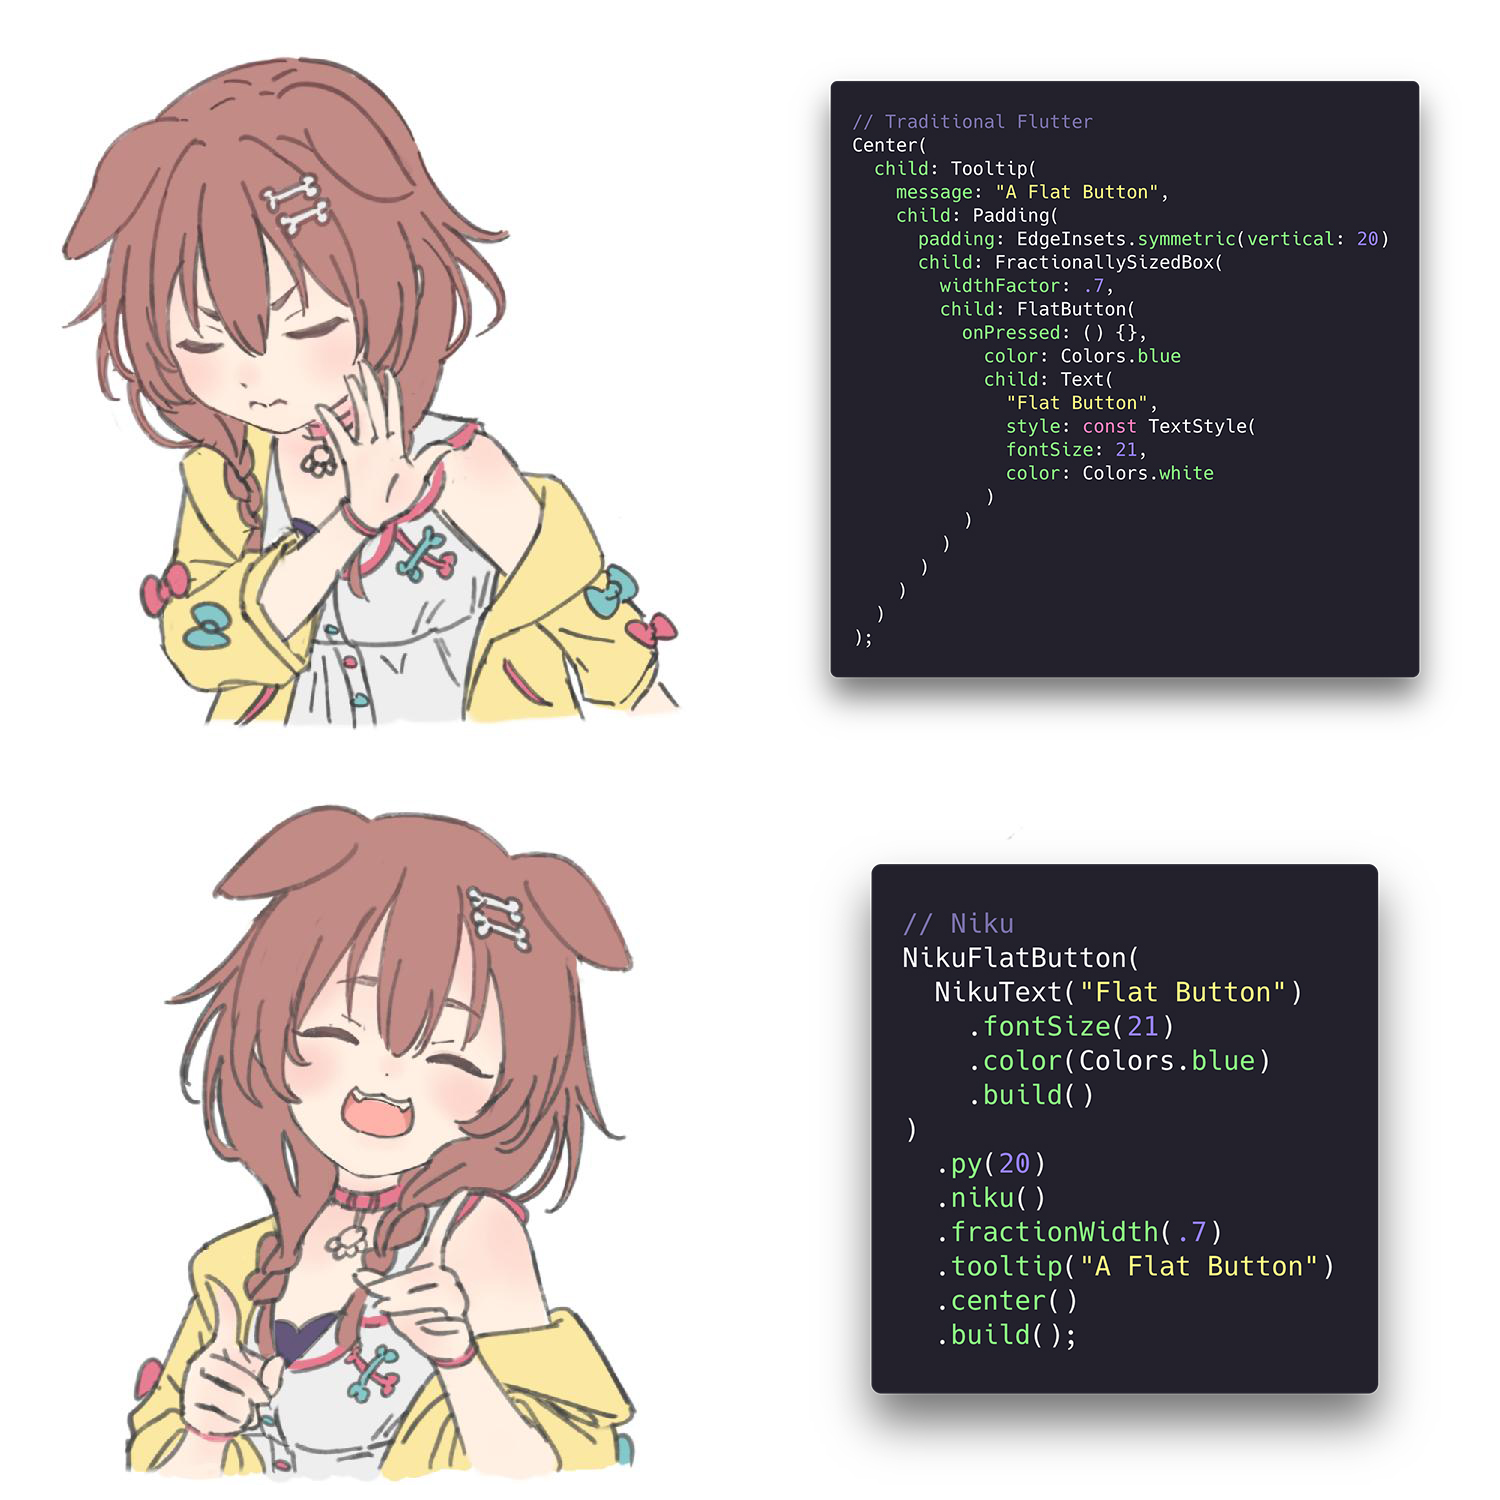
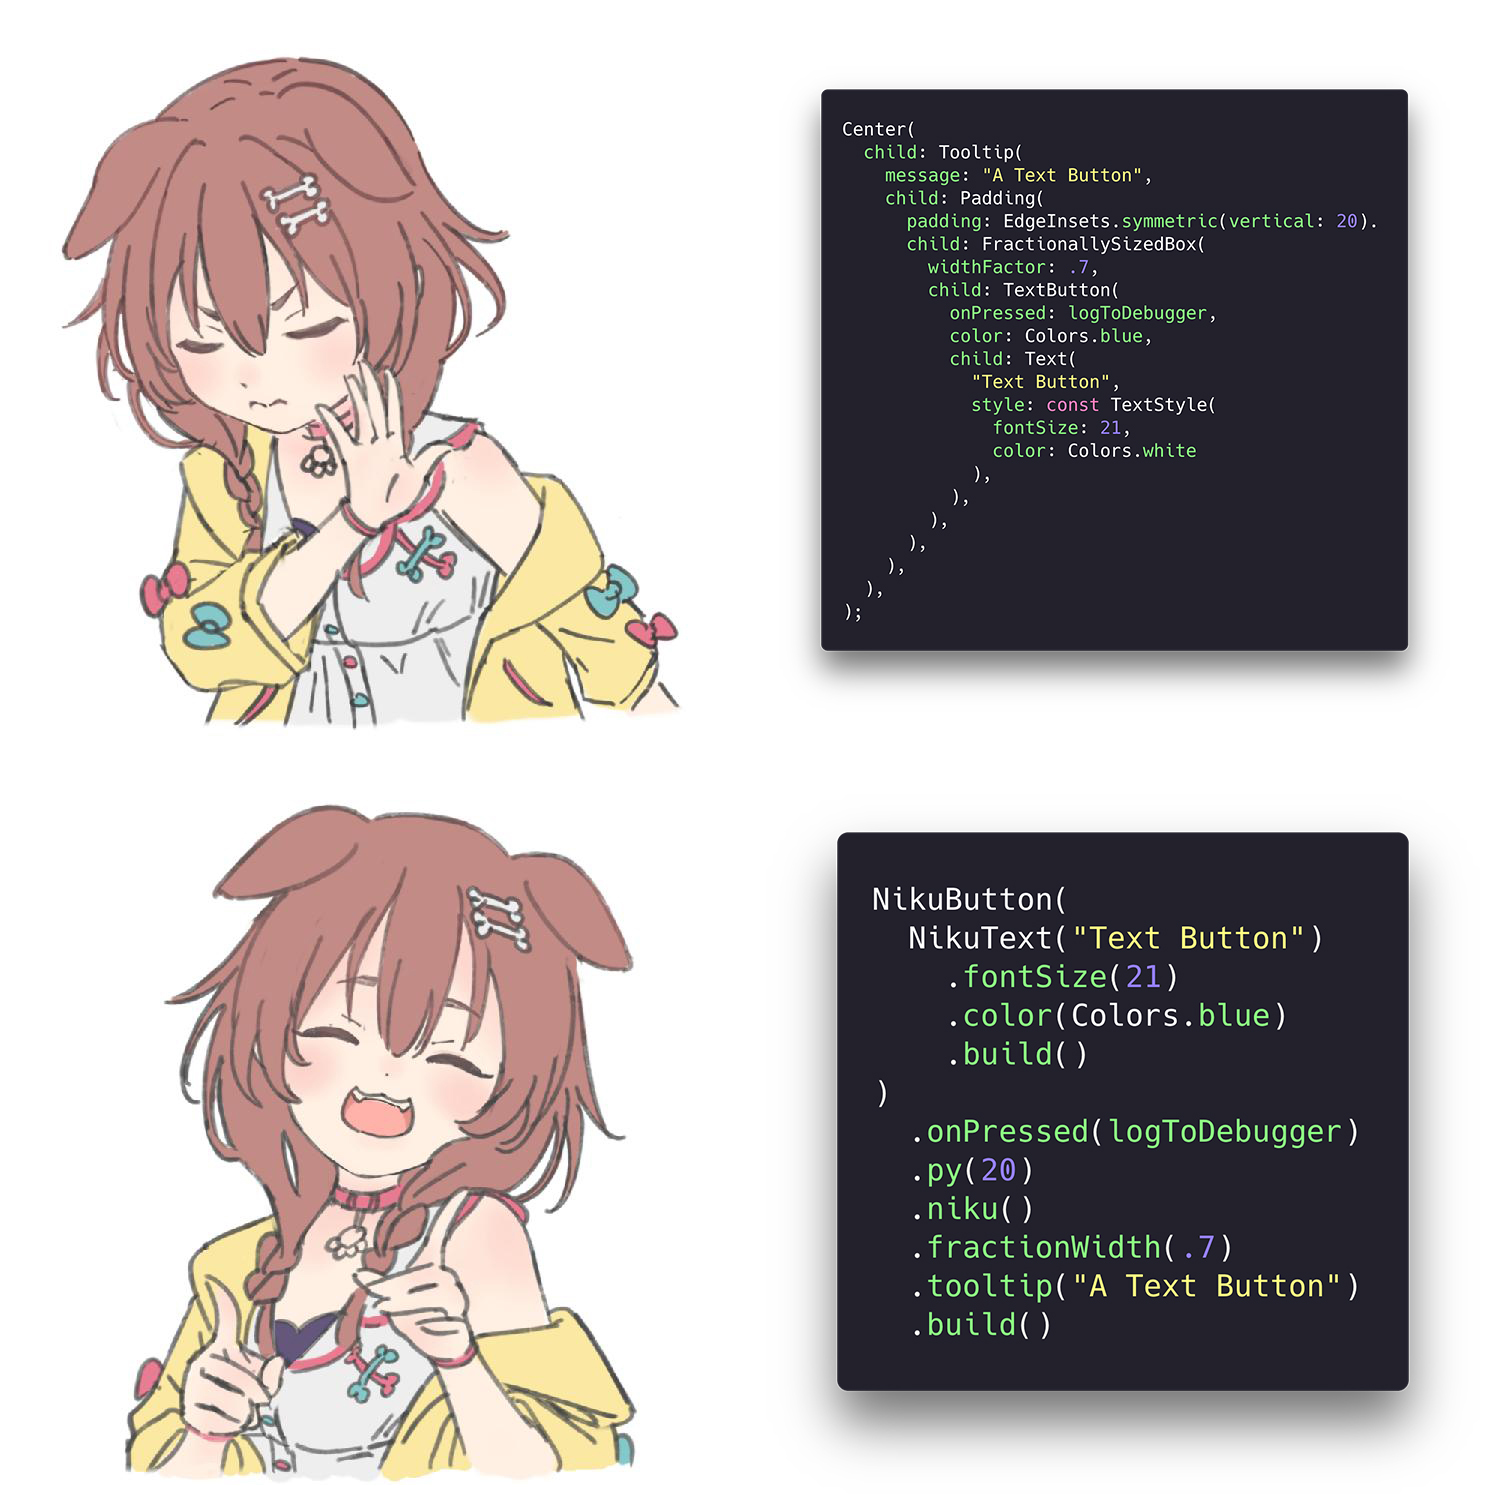
:blue_book: doc - remove old button from documentation

Changed region(s): [[0.5213, 0.552, 0.9813, 0.9813], [0.5213, 0.0307, 0.9813, 0.4907]]

diff --git a/doc/tutorial/foundation.md b/doc/tutorial/foundation.md
@@ -141,7 +141,7 @@ NikuText("Hello World")
 
 The pattern is as same as base widget, but it only accept its own property.
 
-The extended widget not only consisted of Text, but there's more like `NikuFlatButton`, `NikuTextField`, `NikuColumn` and more at [Available Widget page](doc/widget/README.md).
+The extended widget not only consisted of Text, but there's more like `NikuButton`, `NikuTextField`, `NikuColumn` and more at [Available Widget page](doc/widget/README.md).
 
 ### Reusability
 Now what make extended widget is really useful is not only its self-explained code itself, but it's reusability property like `apply`.
